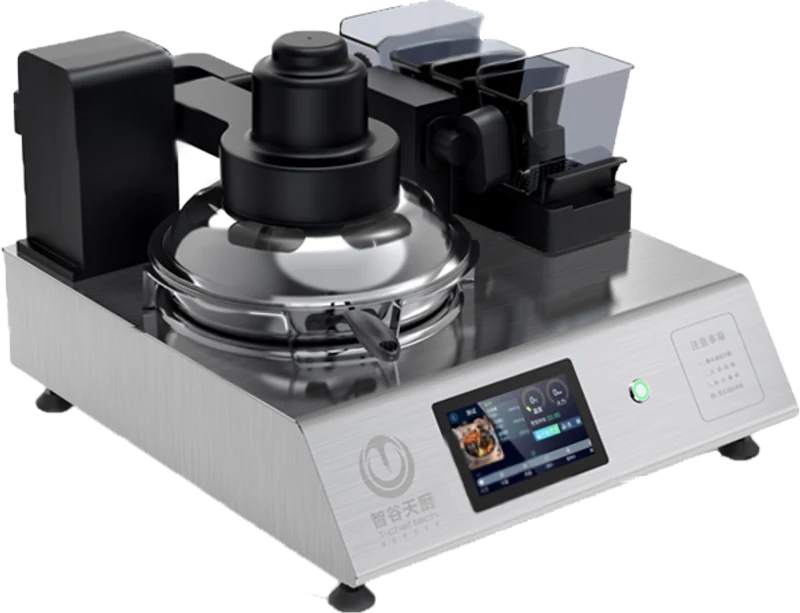
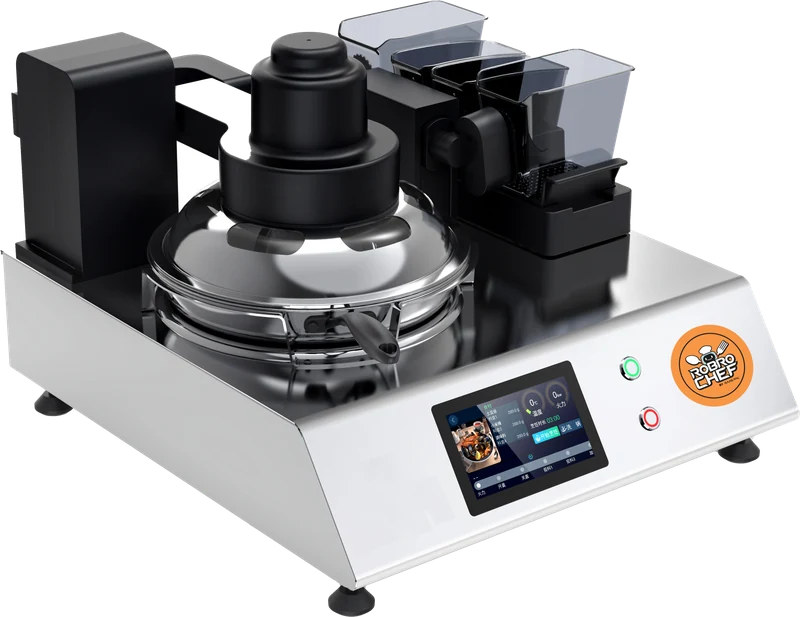
Use the business's high-resolution T-Chef photo for every TC-E10A image
All T-Chef photos on the site now come from one sharp render supplied by
the business (3372px of machine, against about 600px on T-Chef's site):
the hero and card cut-outs, the homepage tile, and three feature close-ups
of the parts they describe (ingredient boxes, wok, touch screen). T-Chef's
own banner, labelled diagram and the studio shots made from them are
removed.

diff --git a/data/modelPages.ts b/data/modelPages.ts
@@ -167,9 +167,10 @@ export const modelPages: ModelPage[] = [
    * Cooking Robot"), checked 2026-10-01. Figures and specs are from its
    * Technical Parameters tab; the feature claims are the five callouts on its
    * labelled product image (the page has no other feature text). It never
-   * says "commercial", so neither do we. Photos: T-Chef's product render as a
-   * sharper transparent cut-out supplied by the business (2026-10-01) — the
-   * hero, the card and both studio shots — plus the labelled image itself.
+   * says "commercial", so neither do we. Photos: all from ONE image, a
+   * high-resolution transparent render of the machine supplied by the
+   * business (2026-10-01, with its Robro Chef badge) — the hero and card
+   * cut-outs, and one close-up per feature of the part it describes.
    * The Thai text is a DRAFT for the Thai team to review.
    */
   {
@@ -178,7 +179,7 @@ export const modelPages: ModelPage[] = [
     brand: "T-Chef",
     name: "TC-E10A",
     preOwned: true,
-    heroImage: { src: "/studio/t-chef-studio.webp", width: 1400, height: 1073 },
+    heroImage: { src: "/studio/t-chef-studio.webp", width: 1400, height: 1079 },
     eyebrow: { en: "T-Chef · Small intelligent cooking robot", th: "T-Chef · หุ่นยนต์ทำอาหารอัจฉริยะขนาดเล็ก" },
     tagline: {
       en: "A small intelligent cooking robot with automatic food delivery, 11 stir-fry modes and smart temperature control.",
@@ -192,8 +193,8 @@ export const modelPages: ModelPage[] = [
     ],
     features: [
       {
-        image: "/models/t-chef/studio.webp",
-        alt: "T-Chef TC-E10A cooking robot",
+        image: "/models/t-chef/feeder.webp",
+        alt: "The TC-E10A's three ingredient boxes and auto food delivery module",
         eyebrow: { en: "Auto food delivery", th: "ระบบเติมวัตถุดิบอัตโนมัติ" },
         title: { en: "Ingredients in, hands free.", th: "เติมวัตถุดิบเอง ไม่ต้องใช้มือ" },
         body: {
@@ -202,8 +203,8 @@ export const modelPages: ModelPage[] = [
         },
       },
       {
-        image: "/models/t-chef/diagram.webp",
-        alt: "T-Chef TC-E10A with its main features labelled",
+        image: "/models/t-chef/wok.webp",
+        alt: "The TC-E10A's stirring head and wok",
         eyebrow: { en: "Stir-fry modes", th: "โหมดการผัด" },
         title: { en: "11 ways to stir-fry.", th: "ผัดได้ 11 รูปแบบ" },
         body: {
@@ -212,8 +213,8 @@ export const modelPages: ModelPage[] = [
         },
       },
       {
-        image: "/models/t-chef/dark.webp",
-        alt: "T-Chef TC-E10A cooking robot on a dark background",
+        image: "/models/t-chef/controls.webp",
+        alt: "The TC-E10A's 7-inch touch screen and power buttons",
         eyebrow: { en: "Touch screen", th: "หน้าจอสัมผัส" },
         title: { en: "One-click cooking.", th: "ทำอาหารได้ในคลิกเดียว" },
         body: {

diff --git a/data/homeShowcase.ts b/data/homeShowcase.ts
@@ -253,9 +253,10 @@ export const moreFamilies: RobotFamily[] = [
     href: "/products/t-chef-tc-e10a",
     interest: "cooking",
     modelId: "t-chef-tc-e10a",
-    // T-Chef's product render on a light studio set, made for this tile: the
-    // machine sits in the lower part, clear of the title and buttons. Phones
-    // show a 4:3 strip, kept to the bottom. There's no lifestyle photo yet.
+    // The machine (the business's high-res render) on a light studio set,
+    // made for this tile: it sits in the lower part, clear of the title and
+    // buttons. Phones show a 4:3 strip, kept to the bottom. No lifestyle
+    // photo yet.
     image: "/models/t-chef/tile.webp",
     focus: "50% 50%",
     focusPhone: "50% 100%",
